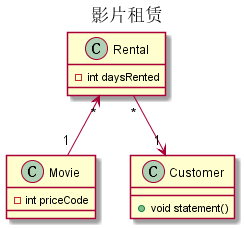
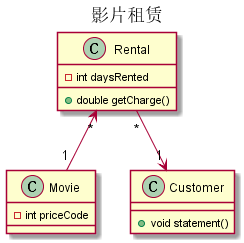
去掉临时变量

Changed region(s): [[0.2295, 0.0, 1.0, 0.9825], [0.0, 0.5833, 0.4303, 0.9825], [0.3156, 0.5526, 0.3443, 0.614]]

diff --git a/src/com/refactoring/Customer.java b/src/com/refactoring/Customer.java
@@ -26,18 +26,18 @@ public class Customer {
 		Enumeration rentals = _rentals.elements();
 		String result = "Rental Record for " + getName() + "\n";
 		while (rentals.hasMoreElements()) {
-			double thisAmount = 0;
+			// double thisAmount = 0;
 			Rental each = (Rental) rentals.nextElement();
 
-			thisAmount = each.getCharge();
+			// thisAmount = each.getCharge();
 
 			frequentRenterPoints++;
 			if ((each.getMovie().getPriceCode() == Movie.NEW_RELEASE) && each.getDaysRented() > 1) {
 				frequentRenterPoints++;
 			}
 
-			result += "\t" + each.getMovie().getTitle() + "\t" + String.valueOf(thisAmount) + "\n";
-			totalAmount += thisAmount;
+			result += "\t" + each.getMovie().getTitle() + "\t" + String.valueOf(each.getCharge()) + "\n";
+			totalAmount += each.getCharge();
 		}
 
 		result += "Amount owned is " + String.valueOf(totalAmount) + "\n";
